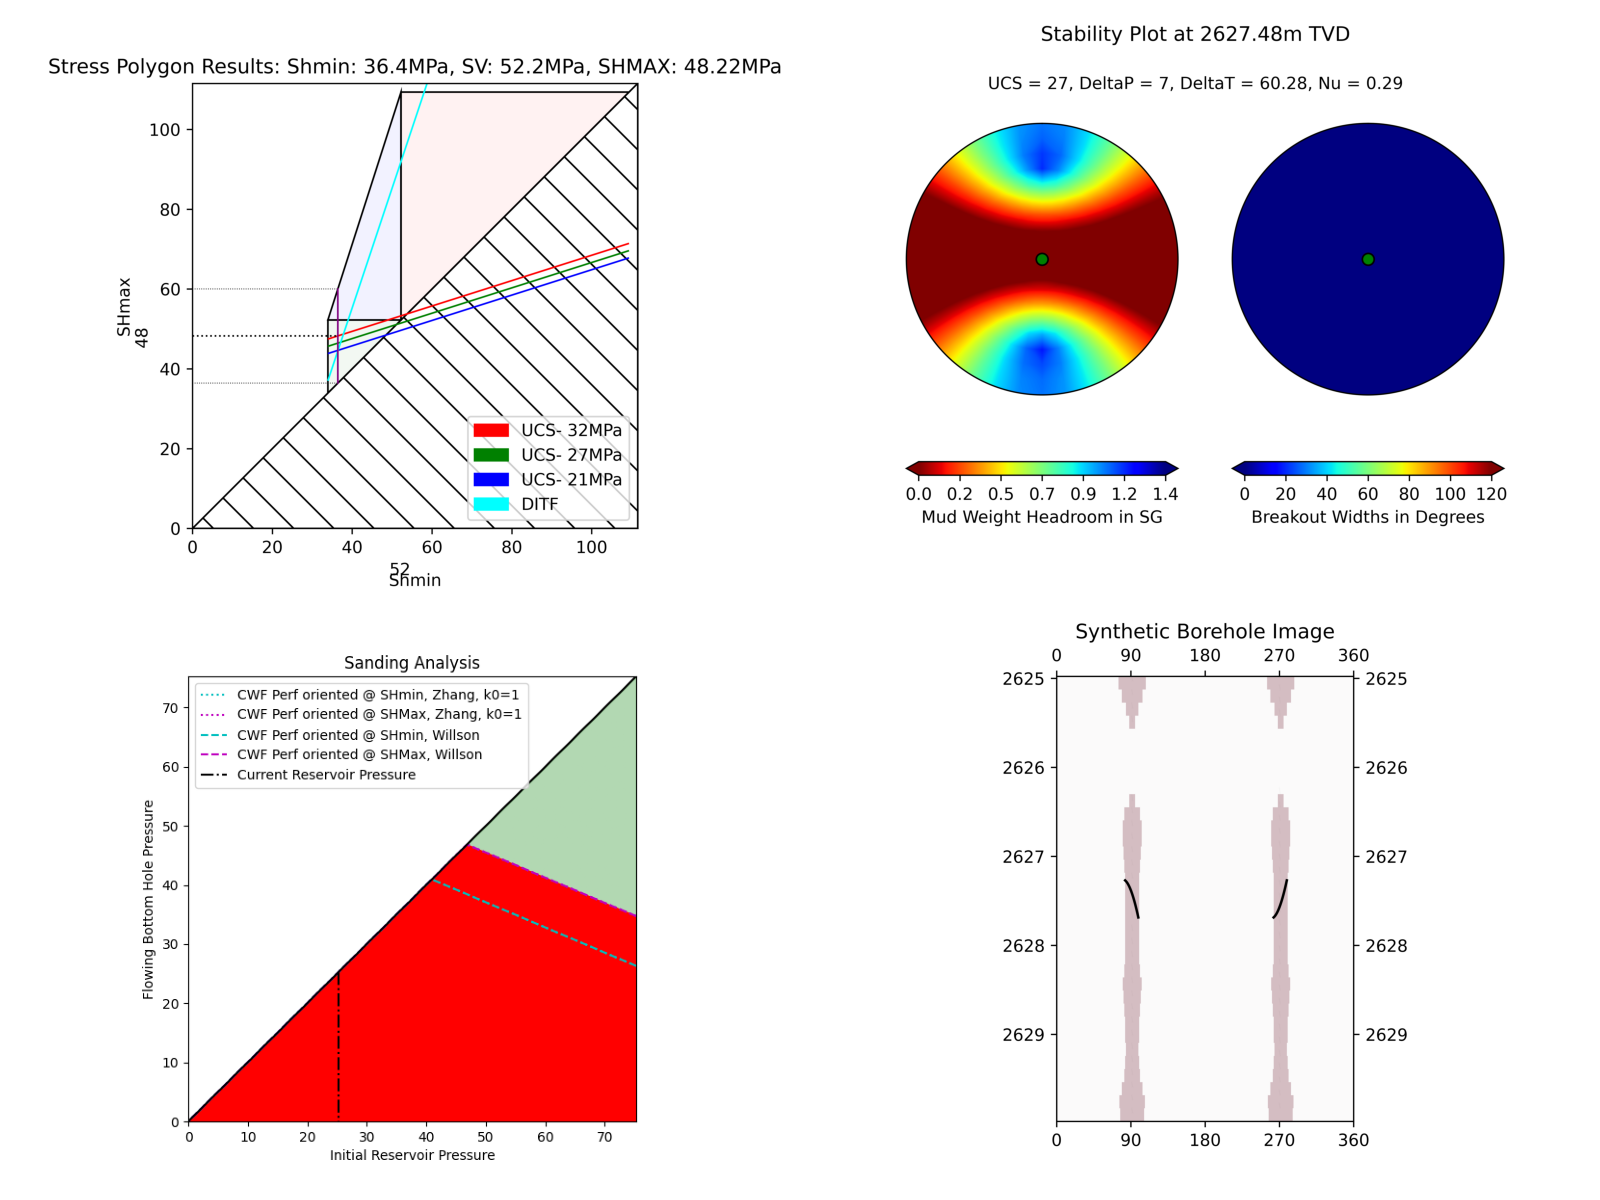
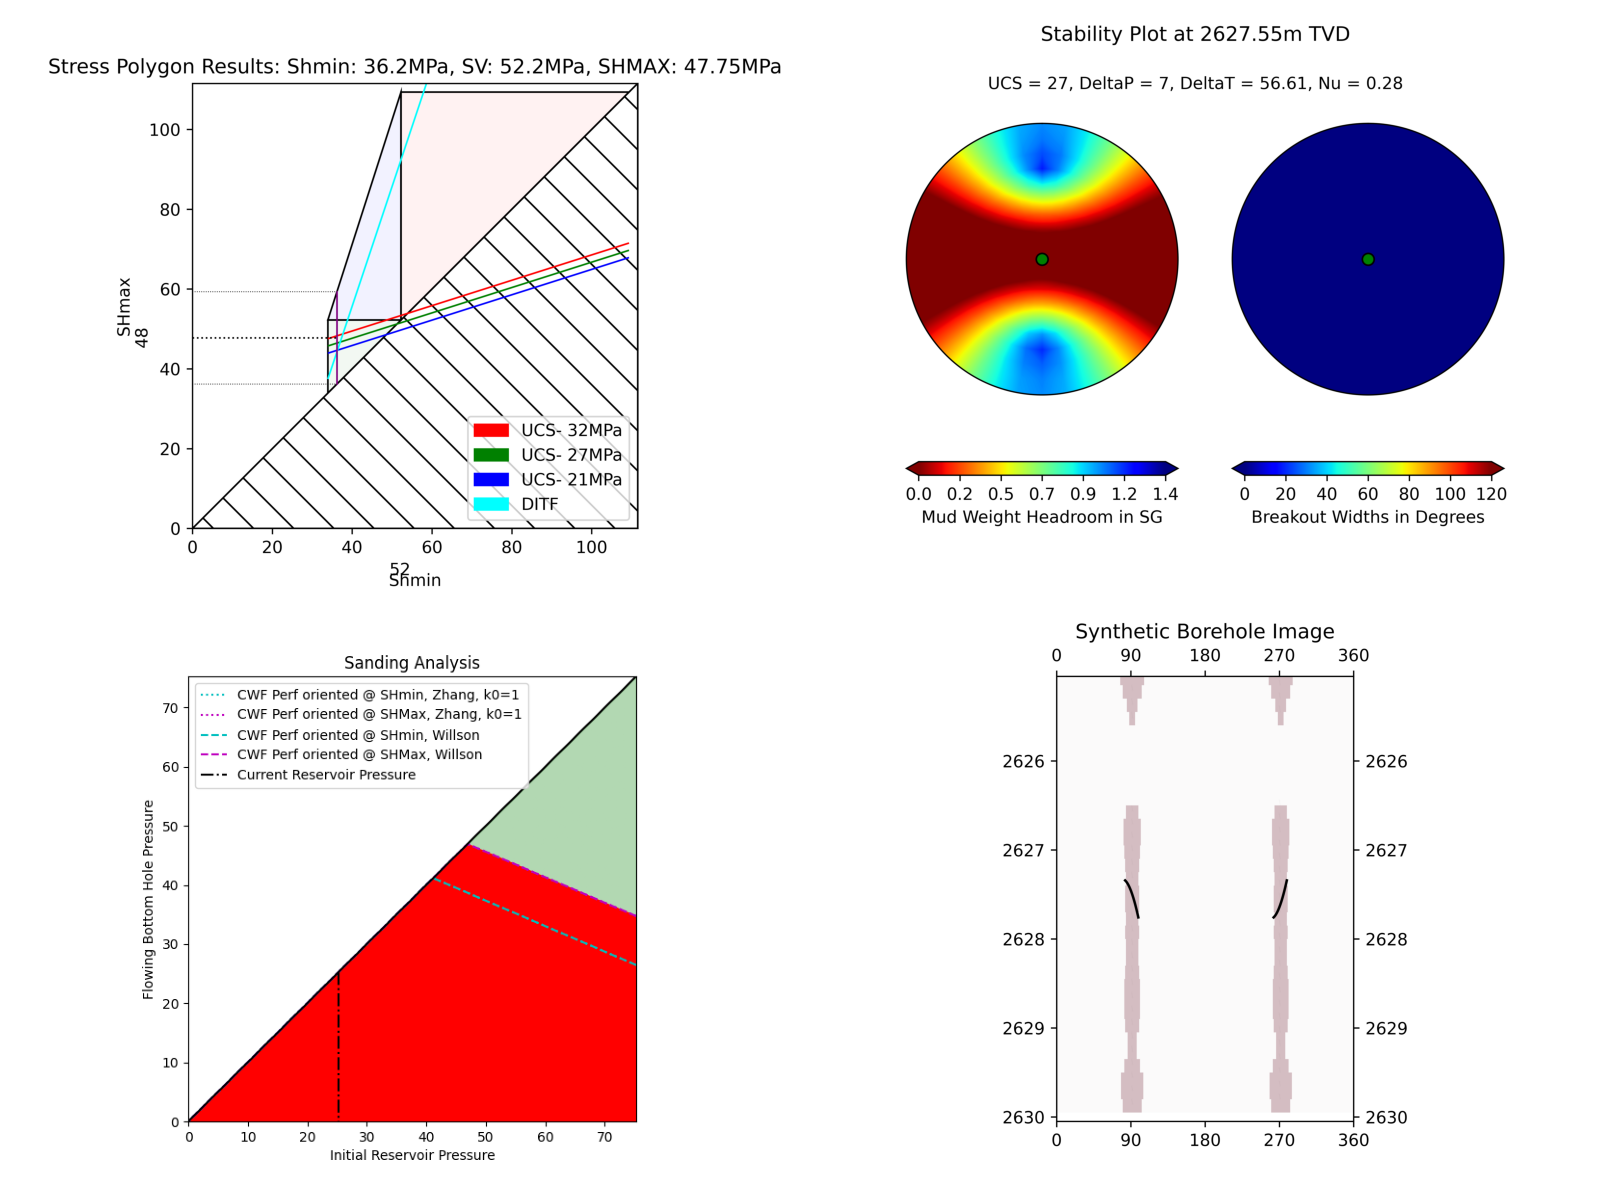
Update docs

diff --git a/docs/source/Examples.rst b/docs/source/Examples.rst
@@ -80,9 +80,8 @@ Our first analysis assumes a perfectly vertical well:
       mwvalues=[[1.26, 0.0, 0.0, 0.0, 0.0, 0]],
       plotstart=2560,
       plotend=2660,
-      mudtemp=50,
+      mudtemp=35,
       fracgradvals=xlot,
-      ten_fac=2000
    )
 
    # Let's check the "PlotAll.png" in the output/Stresslog_Plots to see the zobackogram, stability plot, sanding risk plot and synthetic borehole image
@@ -191,6 +190,16 @@ The results can be found in the ./output/Stresslog_Plots directory, where PlotAl
    :width: 600px
    :align: center
 
+.. image:: ../Figures/PLotAll.png
+   :alt: Stability Plot
+   :width: 600px
+   :align: center
+
+.. image:: ../Figures/overlay.png
+   :alt: Overlay Plot
+   :width: 600px
+   :align: center
+
 
 Analysis Iteration 2: Incorporating Well Deviation
 -----------------------------------------------
@@ -224,6 +233,11 @@ Looking at the survey data, we notice that the well isn't perfectly vertical. At
 
 We observe that this model produces fractures with closure directions opposite to what we see in the actual image logs. This suggests our assumption about well deviation being the primary factor might be incorrect.
 
+.. image:: ../Figures/PlotBHI 1.png
+   :alt: BHI Plot
+   :width: 600px
+   :align: center
+
 Analysis Iteration 3: Reintroducing Stress Tensor Tilt
 ------------------------------------------------------
 
@@ -252,6 +266,11 @@ Let's try reintroducing the stress tensor tilt while keeping the well deviation:
     )
 
 This corrects the closure direction, but now the fracture alignment is incorrect. The results suggest we need an SHmax azimuth above 100°, closer to 120°.
+
+.. image:: ../Figures/PlotBHI 2.png
+   :alt: BHI Plot
+   :width: 600px
+   :align: center
 
 Analysis Iteration 4: Using Log-Derived SHmax Azimuth
 -----------------------------------------------------
@@ -295,6 +314,11 @@ The log data suggests values around 114°. Let's incorporate this into our model
         ten_fac=0
     )
 
+.. image:: ../Figures/PlotBHI 3.png
+   :alt: BHI Plot
+   :width: 600px
+   :align: center
+
 Discussion and Limitations
 --------------------------
 
@@ -303,13 +327,5 @@ This final model provides a much better match with the recorded data. However, t
 The SHmax_Azim values in the log actually range from 90° to 125° in the interval containing the fractures.
 If these varying azimuths were accurate, we would expect to see considerable variation in fracture position, which is not observed in the data.
 
-This case study illustrates the complexity of real-world geomechanical analysis. Different models can provide reasonable fits to the data, and choosing between them often requires careful consideration of geological context and the relative importance of different observations.
-The final choice of model parameters should be based on:
-
-- Match to observed fracture patterns
-- Consistency with regional stress patterns
-- Geological reasonableness
-- Understanding of measurement uncertainties
-
-Remember that in real-world applications, the "correct" model may not be immediately obvious, and multiple interpretations might be equally valid given the available data.
-```
+This case study illustrates the complexity of real-world geomechanical analysis.
+Which model (if any) better describes reality is left upto the geological sensibility of the reader.
